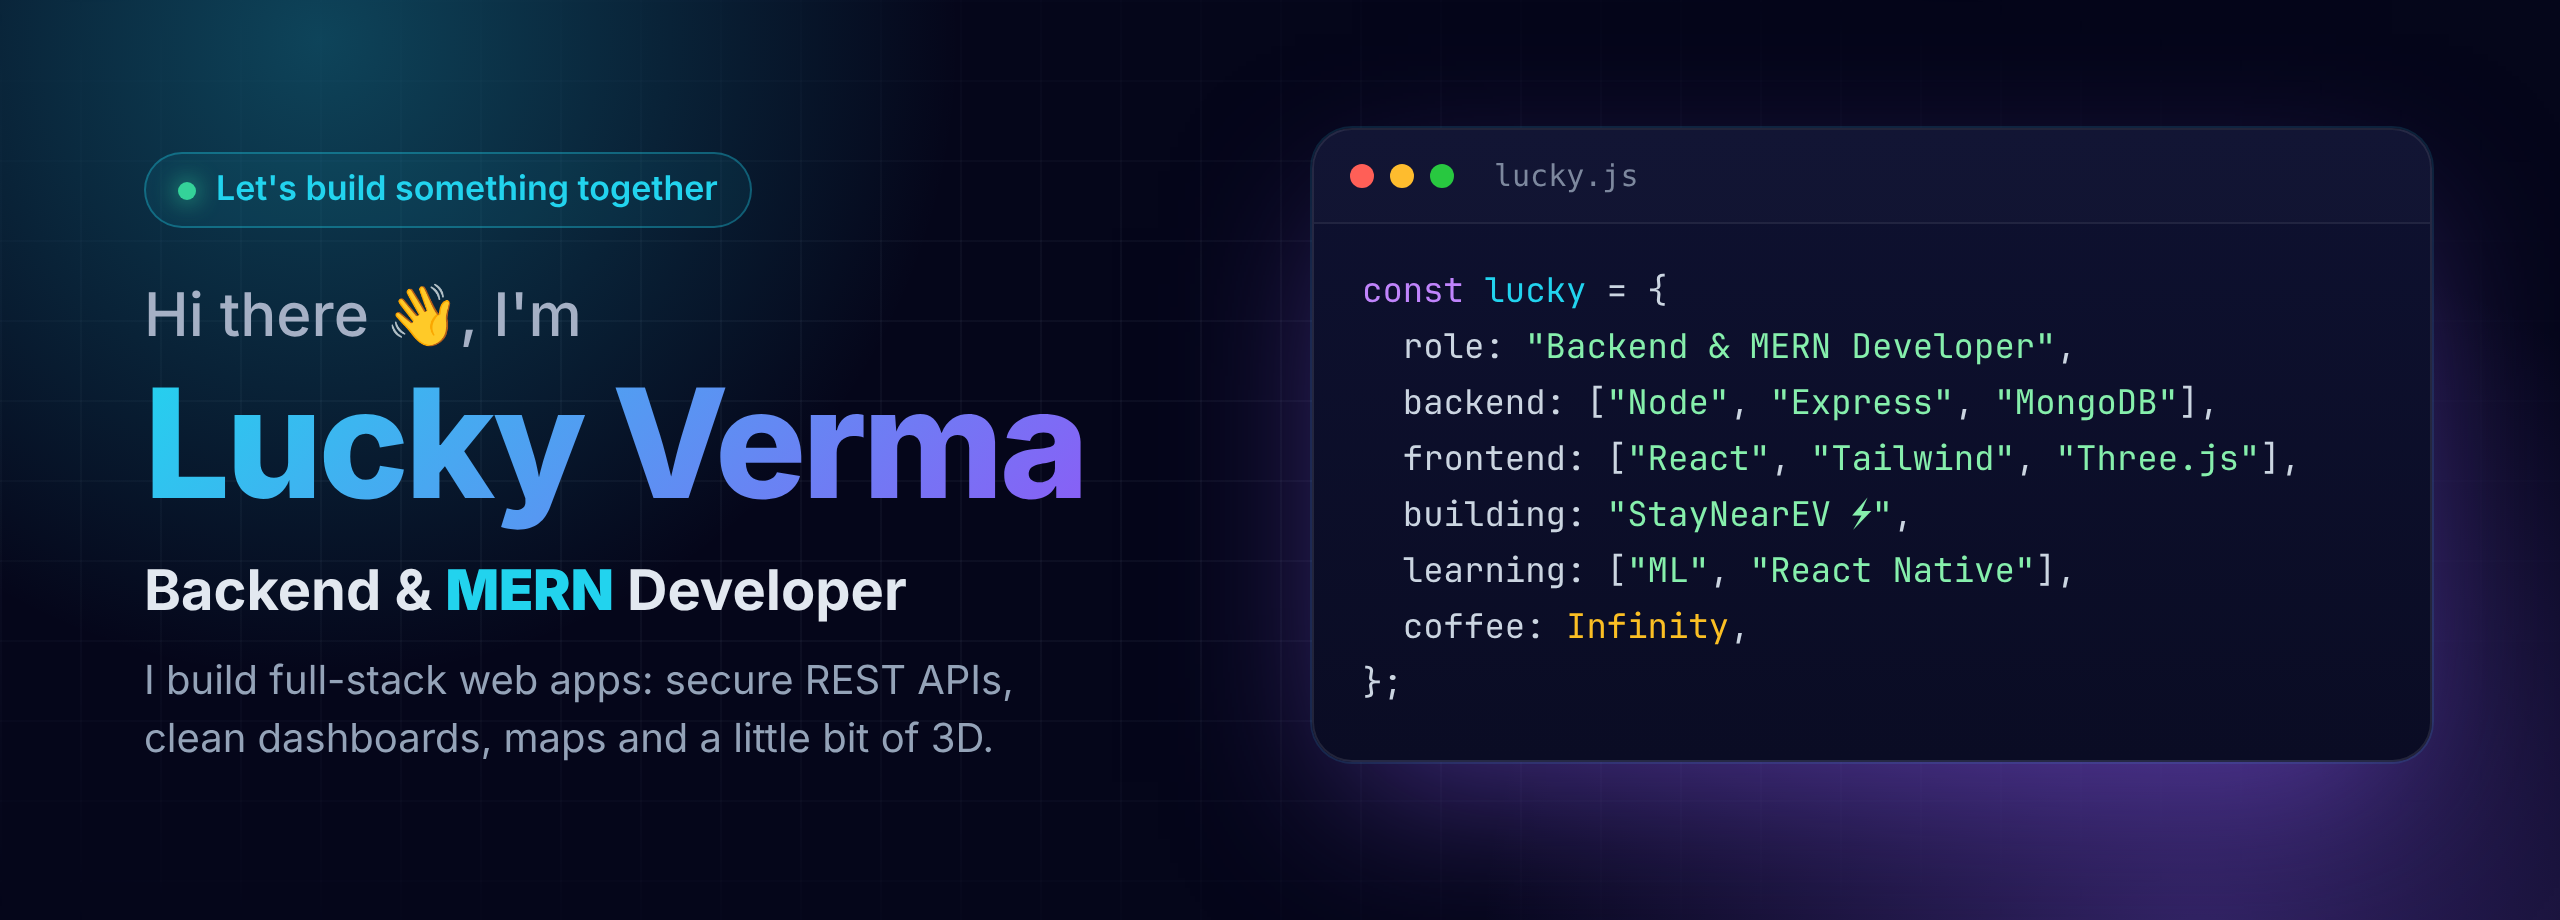
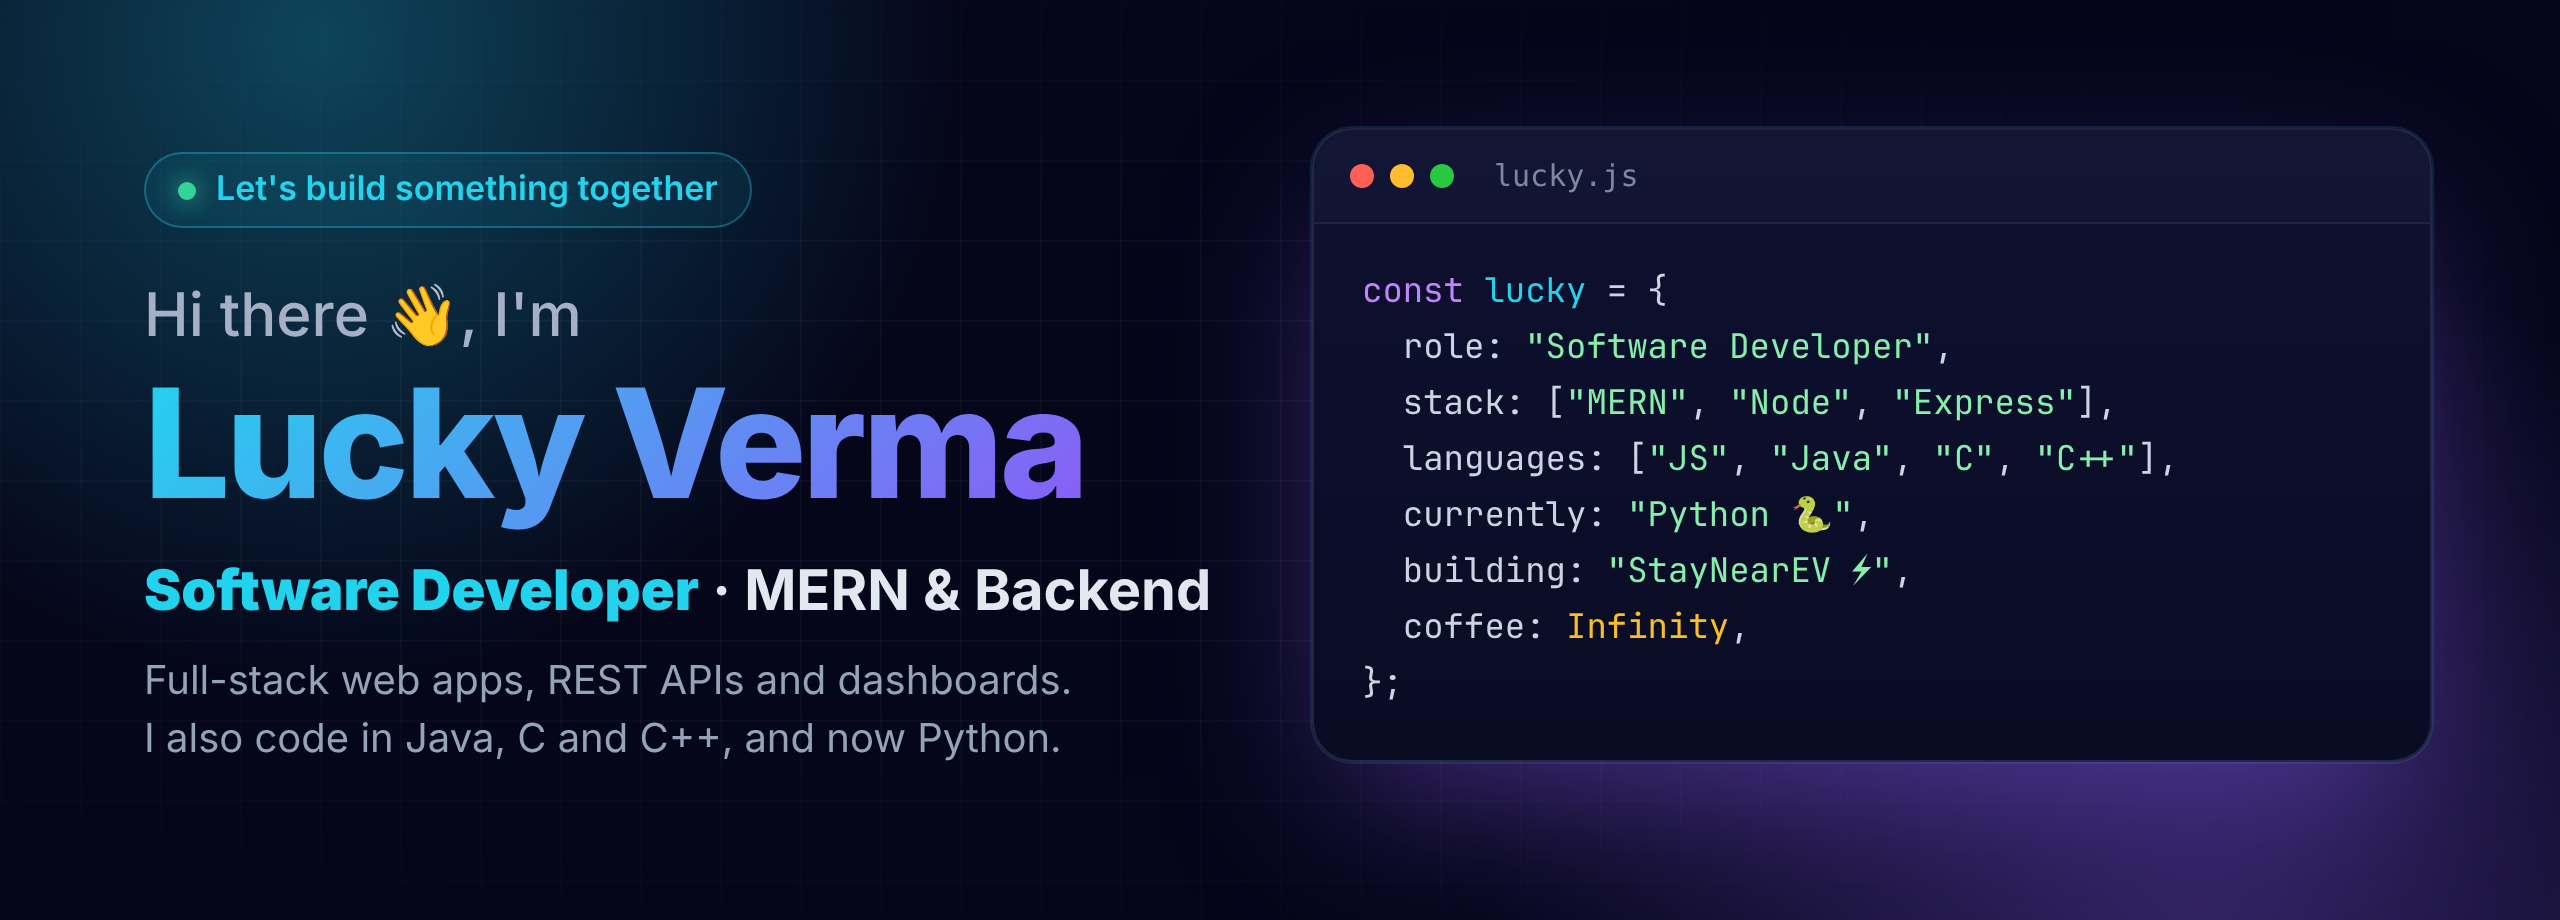
Software Developer intro: add Java, C, C++ and Python

diff --git a/README.md b/README.md
@@ -1,8 +1,8 @@
 <div align="center">
 
-<img src="assets/header.png" alt="Hi, I'm Lucky Verma: Backend & MERN Developer" width="100%" />
+<img src="assets/header.png" alt="Hi, I'm Lucky Verma: Software Developer" width="100%" />
 
-<a href="https://git.io/typing-svg"><img src="https://readme-typing-svg.demolab.com?font=Inter&weight=600&size=22&duration=3000&pause=800&color=22D3EE&center=true&vCenter=true&width=600&lines=Backend+%26+MERN+Developer;I+build+REST+APIs+with+Node+%2B+Express;React+frontends+with+maps+and+3D;Always+shipping+something+new+%E2%9A%A1" alt="Typing intro" /></a>
+<a href="https://git.io/typing-svg"><img src="https://readme-typing-svg.demolab.com?font=Inter&weight=600&size=22&duration=3000&pause=800&color=22D3EE&center=true&vCenter=true&width=600&lines=Software+Developer;MERN+%26+Backend+with+Node+%2B+Express;Java+%C2%B7+C+%C2%B7+C%2B%2B+for+DSA+and+OOP;Currently+working+with+Python+%F0%9F%90%8D" alt="Typing intro" /></a>
 
 [![Portfolio](https://img.shields.io/badge/My_Portfolio-22D3EE?style=for-the-badge&logo=googlechrome&logoColor=black)](https://lucky-portfolio-tau.vercel.app)
 [![LinkedIn](https://img.shields.io/badge/LinkedIn-8B5CF6?style=for-the-badge&logo=linkedin&logoColor=white)](https://www.linkedin.com/in/lucky-verma-886547307/)
@@ -14,12 +14,22 @@
 
 ## 👋 About me
 
-- ⚡ I'm a **backend and MERN developer**. I like building APIs, auth, emails and the dashboards that sit on top of them.
-- 🔭 Right now I'm working on **[StayNearEV](https://github.com/Luckyverma04/StayNearEvFrontend)**, an app to find and book EV charging stations.
-- 🌱 Learning: machine learning ([ml-journey](https://github.com/Luckyverma04/ml-journey)) and React Native ([StayNearEV app](https://github.com/Luckyverma04/Stay-NearEv-APK)).
-- 💬 Ask me about Node.js, Express, MongoDB, JWT auth and React.
+- 💻 I'm a **software developer**. Most of my work is **MERN and backend**: REST APIs, auth, emails and the dashboards on top of them.
+- ☕ I also write **Java, C and C++**: DSA problems, OOP and practice programs ([Java DSA](https://github.com/Luckyverma04/Problem-Solving-Codes-in-java) · [C](https://github.com/Luckyverma04/Training-codes) · [C++](https://github.com/Luckyverma04/training-Cpp)).
+- 🐍 Currently working with **Python** and machine learning ([ml-journey](https://github.com/Luckyverma04/ml-journey)).
+- 🔭 Building **[StayNearEV](https://github.com/Luckyverma04/StayNearEvFrontend)**, an app to find and book EV charging stations, plus its [Android app](https://github.com/Luckyverma04/Stay-NearEv-APK).
+- 💬 Ask me about Node.js, Express, MongoDB, React, JWT auth and DSA.
 
 ## 🛠 Tech stack
+
+**Languages**
+<br/>
+![JavaScript](https://img.shields.io/badge/JavaScript-F7DF1E?style=flat-square&logo=javascript&logoColor=black)
+![TypeScript](https://img.shields.io/badge/TypeScript-3178C6?style=flat-square&logo=typescript&logoColor=white)
+![Java](https://img.shields.io/badge/Java-ED8B00?style=flat-square&logo=openjdk&logoColor=white)
+![C](https://img.shields.io/badge/C-A8B9CC?style=flat-square&logo=c&logoColor=black)
+![C++](https://img.shields.io/badge/C++-00599C?style=flat-square&logo=cplusplus&logoColor=white)
+![Python](https://img.shields.io/badge/Python_(learning)-3776AB?style=flat-square&logo=python&logoColor=white)
 
 **Backend**
 <br/>
@@ -40,17 +50,13 @@
 ![Leaflet](https://img.shields.io/badge/Leaflet-199900?style=flat-square&logo=leaflet&logoColor=white)
 ![Expo](https://img.shields.io/badge/Expo-000020?style=flat-square&logo=expo&logoColor=white)
 
-**Languages & tools**
+**Tools & hosting**
 <br/>
-![JavaScript](https://img.shields.io/badge/JavaScript-F7DF1E?style=flat-square&logo=javascript&logoColor=black)
-![TypeScript](https://img.shields.io/badge/TypeScript-3178C6?style=flat-square&logo=typescript&logoColor=white)
-![Java](https://img.shields.io/badge/Java-ED8B00?style=flat-square&logo=openjdk&logoColor=white)
-![C++](https://img.shields.io/badge/C++-00599C?style=flat-square&logo=cplusplus&logoColor=white)
-![C](https://img.shields.io/badge/C-A8B9CC?style=flat-square&logo=c&logoColor=black)
-![Python](https://img.shields.io/badge/Python-3776AB?style=flat-square&logo=python&logoColor=white)
 ![Git](https://img.shields.io/badge/Git-F05032?style=flat-square&logo=git&logoColor=white)
+![GitHub](https://img.shields.io/badge/GitHub-181717?style=flat-square&logo=github&logoColor=white)
 ![Render](https://img.shields.io/badge/Render-46E3B7?style=flat-square&logo=render&logoColor=black)
 ![Vercel](https://img.shields.io/badge/Vercel-000000?style=flat-square&logo=vercel&logoColor=white)
+![VS Code](https://img.shields.io/badge/VS_Code-007ACC?style=flat-square&logo=visualstudiocode&logoColor=white)
 
 ---
 
